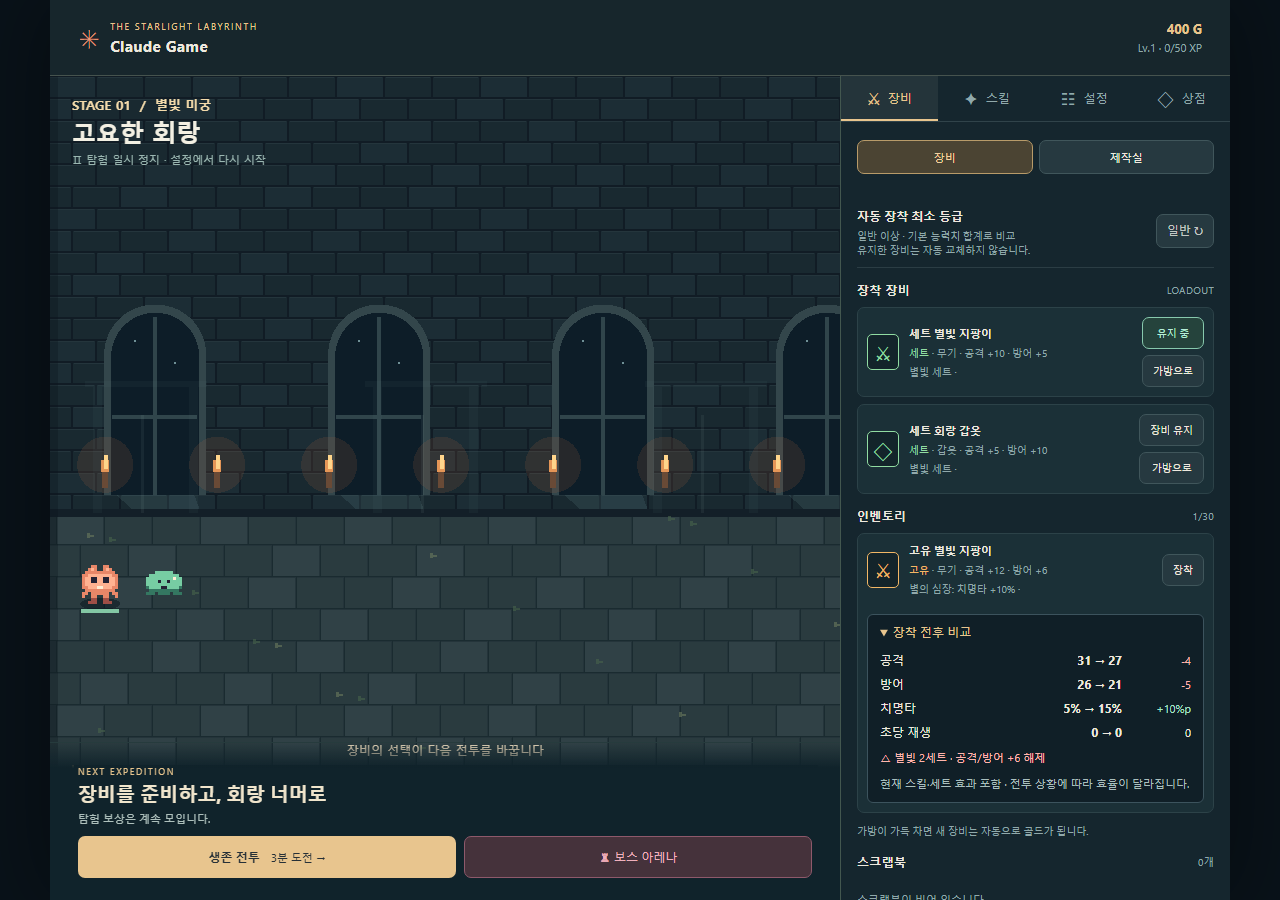
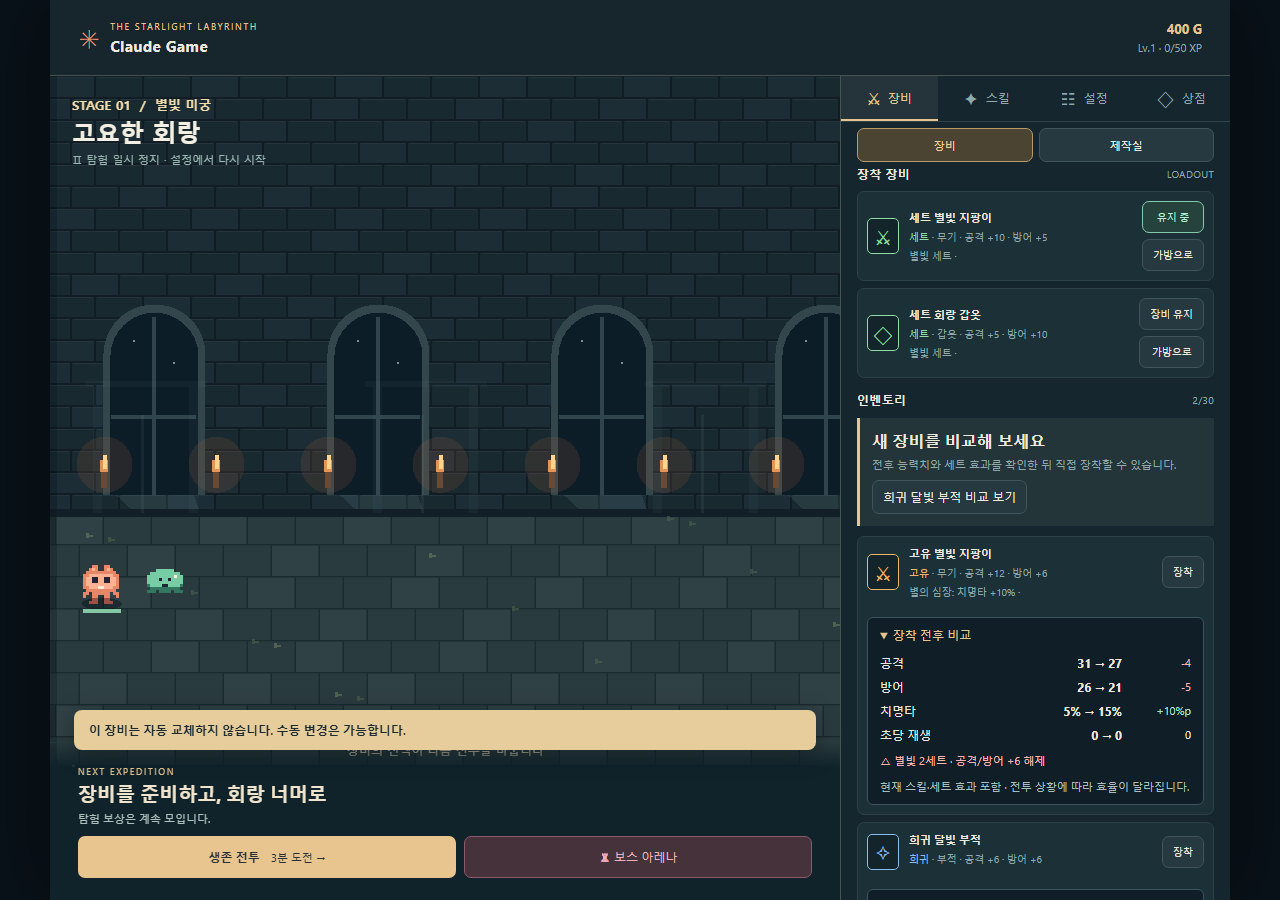
feat: guide first equipment choice and enemy roles

diff --git a/src/ui/BottomPanel.js b/src/ui/BottomPanel.js
@@ -72,8 +72,14 @@ export function renderTab(tab, state) {
     return sectionNav(tab, "craft") + renderCraft(state);
   if (tab === "shop" && ["merchant", "auction"].includes(state.view))
     return sectionNav(tab, state.view) + renderMarket(state, state.view);
-  if (tab === "equipment")
-    return `${sectionNav("equipment", "gear")}${gradeControl(state)}<div class="section-title">장착 장비 <span>LOADOUT</span></div><ul class="item-list">${state.character.equippedItems.length ? state.character.equippedItems.map((i) => itemRow(i, "unequip-item", "가방으로")).join("") : '<li class="empty-state">장착한 장비 없음 · 탐험하며 장비를 찾아보세요.</li>'}</ul><div class="section-title">인벤토리 <span>${(state.inventory || []).length}/${INVENTORY_CAPACITY}</span></div><ul class="item-list">${(state.inventory || []).map((i) => itemRow(i, "equip-item", "장착", undefined, true, state.character)).join("") || '<li class="empty-state">새로운 장비가 이곳에 모입니다.</li>'}</ul><p class="hint">가방이 가득 차면 새 장비는 자동으로 골드가 됩니다.</p><div class="section-title">스크랩북 <span>${(state.scrapbook || []).length}개</span></div><ul class="item-list">${(state.scrapbook || []).map((i) => itemRow(i, "restore-scrapbook-item", `${itemGoldValue(i)}G 복원`)).join("") || '<li class="empty-state">스크랩북이 비어 있습니다.</li>'}</ul>`;
+  if (tab === "equipment") {
+    const guideItem = (state.inventory || []).find(item => item.identified !== false &&
+      !state.character.equippedItems.some(equipped => equipped.slot === item.slot));
+    const guide = guideItem
+      ? `<aside class="first-equipment-guide"><b>새 장비를 비교해 보세요</b><small>전후 능력치와 세트 효과를 확인한 뒤 직접 장착할 수 있습니다.</small><button data-action="compare-first-item" data-item-id="${esc(guideItem.id)}">${esc(guideItem.name)} 비교 보기</button></aside>`
+      : '';
+    return `${sectionNav("equipment", "gear")}${gradeControl(state)}<div class="section-title">장착 장비 <span>LOADOUT</span></div><ul class="item-list">${state.character.equippedItems.length ? state.character.equippedItems.map((i) => itemRow(i, "unequip-item", "가방으로")).join("") : '<li class="empty-state">장착한 장비 없음 · 탐험하며 장비를 찾아보세요.</li>'}</ul><div class="section-title">인벤토리 <span>${(state.inventory || []).length}/${INVENTORY_CAPACITY}</span></div>${guide}<ul class="item-list">${(state.inventory || []).map((i) => itemRow(i, "equip-item", "장착", undefined, true, state.character)).join("") || '<li class="empty-state">새로운 장비가 이곳에 모입니다.</li>'}</ul><p class="hint">가방이 가득 차면 새 장비는 자동으로 골드가 됩니다.</p><div class="section-title">스크랩북 <span>${(state.scrapbook || []).length}개</span></div><ul class="item-list">${(state.scrapbook || []).map((i) => itemRow(i, "restore-scrapbook-item", `${itemGoldValue(i)}G 복원`)).join("") || '<li class="empty-state">스크랩북이 비어 있습니다.</li>'}</ul>`;
+  }
   if (tab === "skills") return renderSkillTree(state);
   if (tab === "settings")
     return `<div class="section-title">탐험 설정 <span>PREFERENCES</span></div>${gradeControl(state)}${[
@@ -229,6 +235,15 @@ export function mountBottomPanel(container) {
     }
     const button = event.target.closest("[data-action]");
     if (!button) return;
+    if (button.dataset.action === 'compare-first-item') {
+      const details = content.querySelector(`[data-comparison-id="${CSS.escape(button.dataset.itemId)}"]`);
+      if (details) {
+        details.open = true;
+        details.scrollIntoView({ behavior: 'smooth', block: 'nearest' });
+        details.querySelector('summary')?.focus({ preventScroll: true });
+      }
+      return;
+    }
     const state = store.getState(),
       action = button.dataset.action;
     let message = "";

diff --git a/src/systems/arena.js b/src/systems/arena.js
@@ -159,8 +159,19 @@ export function stepArena(
     const speed = enemy.boss
       ? 0
       : (24 + enemy.kind * 6 + arena.elapsed / 18) * (1 - slowed) * enraged;
-    enemy.x += ((p.x - enemy.x) / distance) * speed * dt;
-    enemy.y += ((p.y - enemy.y) / distance) * speed * dt;
+    let moveX = (p.x - enemy.x) / distance, moveY = (p.y - enemy.y) / distance;
+    if (!enemy.boss && !enemy.leader && enemy.kind === 1) {
+      // Bats weave across the approach line while continuing to close in.
+      const weave = Math.sin(arena.elapsed * 4 + enemy.id * 1.7) * 0.42;
+      const x = moveX - moveY * weave, y = moveY + moveX * weave;
+      const norm = Math.hypot(x, y) || 1;
+      moveX = x / norm; moveY = y / norm;
+    } else if (!enemy.boss && !enemy.leader && enemy.kind === 2 && distance < 145) {
+      // Skulls hold a little space instead of joining the contact swarm.
+      moveX *= -0.72; moveY *= -0.72;
+    }
+    enemy.x += moveX * speed * dt;
+    enemy.y += moveY * speed * dt;
     if (distance < HAZARD_GEOMETRY.playerContactRadius && arena.invulnerable <= 0) {
       p.hp = Math.max(
         0,

diff --git a/src/style.css b/src/style.css
@@ -57,6 +57,9 @@
 .stat-gain { color: #a8e5c5; }
 .comparison-warning { font-size: 11px; margin: 10px 0; }
 .equipment-comparison > small { display: block; margin-top: 10px; color: #aabfbe; line-height: 1.6; }
+.first-equipment-guide { display: grid; gap: 6px; padding: 12px; margin: 10px 0; border-left: 3px solid var(--gold); background: #24353a; }
+.first-equipment-guide small { color: var(--muted); line-height: 1.5; }
+.first-equipment-guide button { justify-self: start; }
 @media (max-height: 700px) {
   .expedition-actions { padding: 12px 18px; }
   .expedition-actions > div:first-child { display: none; }

diff --git a/docs/qa/2026-10-06/design-gap-review.md b/docs/qa/2026-10-06/design-gap-review.md
@@ -13,7 +13,7 @@
 | 넓은 화면 준비·장비 구성 | 대표 구간 완료 | 결과/획득 화면까지 준비 흐름 연결, 포털 실제 실행 검토 |
 | 전투 폭 정책 | 결정 반영 | 재설계 1차안은 판정 공간을 넓히지 않고 전투 캔버스를 최대 520px 기준으로 유지한다. 큰 화면은 좌우 준비 화면에 사용한다. 추후 전투 확대 시에만 논리 좌표 분리가 필요 |
 | 장비 전후 비교·자동 장착 보호 | 구현 | 인벤토리와 전투 보상에서 시작 시점 대비 능력치/세트 변화 표시. 장기 저장 이행과 복수 보상 누적 상황의 별도 사용자 평가 기록은 남음 |
-| 출전 준비·첫 성장 안내 | 부분 | 출전 선택은 명시적이나 첫 획득→비교→장착을 이끄는 도움말/목표 흐름은 없음 |
+| 출전 준비·첫 성장 안내 | 보강 | 빈 장비 슬롯에 보관 장비가 있으면 비교 안내와 비교 펼침 이동을 제공. 출전까지 잇는 단계별 목표 흐름은 남음 |
 | 위험 표현 | 구현 보강 | 위험 반경/돌진 폭을 규칙과 표시가 공유하고 개발 빌드 F2 판정 겹침 표시를 추가. 위협 동시 발생과 실제 모바일에서의 회피 이해도 측정은 남음 |
 | 캐릭터 동작 프레임 | 구현 보강 | 주인공의 이동/준비/공격/피격, 일반 적 3종과 수호자 자세를 추가. 별도 해상도 비교 및 저사양 모바일 확인은 남음 |
 | 보스 소개 | 부분 | 정지 타이머·건너뛰기·감소 모션·화면 페이드. 시선 연출, 소리 연결, 재도전용 단축, 소개 완료와 실제 공격 개시의 모든 상태 조합 확인은 없음 |
@@ -22,7 +22,7 @@
 | 애니메이션 수명/취소 | 부분 | 감소 모션, 씬 종료 정리, 일부 동시 표시 상한이 있음. 공통 표현 수명/우선순위 정책과 resize·중단·스킵 전 상태 복원 계약은 없음 |
 | 재현/성능 기반 | 미완료 | 고정 위험 캡처와 브라우저 fixture는 있으나 반복 입력 세트, 느린 프레임/메모리/실기기 측정은 없음 |
 | 아트 스타일 규칙 | 미완료 | 현재 코드에 팔레트와 픽셀 질감이 있으나 모든 자산에 적용되는 윤곽·명암·효과 형태 지침이 정식 기준으로 고정되지 않음 |
-| 적 역할과 페이싱 | 조사/실험 전 | 적들은 접근하는 행동이 중심. 역할별 행동과 전투 강약 실험은 로드맵의 후속 항목 |
+| 적 역할과 페이싱 | 초기 역할 구현 | 박쥐는 좌우로 흔들며 접근하고 해골은 근거리에서 거리를 둔다. 수치 난이도와 전투 강약/공정성은 별도 반복 플레이 평가 필요 |
 | 보상 분포 모델 | 검토 전 | 시각 재설계 대표 작업과 별도인 경제·장기 획득 분포 계산은 남음 |
 | 강한 타격 정지 연출 | 미채택 | 로드맵 P3의 선택 실험. 현재 범위에서 필수 누락은 아님 |
 

diff --git a/docs/qa/2026-10-06/implementation-progress.md b/docs/qa/2026-10-06/implementation-progress.md
@@ -11,12 +11,14 @@
 - 탐험 배경 원경을 별도 그래픽 레이어로 만들어 벽보다 느린 시차로 이동한다. reduced motion에서는 층이 함께 정지한다.
 - 겹친 경고는 보스 위험 우선, 군집 경고 후순위로 처리한다. 동급 신호는 한 줄에 합친다.
 - 픽셀 아트 최소 규칙을 [스타일 가이드 초안](../../research/project-application/pixel-style-guide.md)에 기록했다.
+- 첫 빈 장비 슬롯에 감정된 물품이 있으면 비교 위치로 바로 이동하는 장비 안내를 추가했다.
+- 박쥐는 접근 중 좌우로 흔들고 해골은 가까이 붙으면 거리를 벌려 적 역할을 시각과 움직임 양쪽에서 구분한다. 군집 우두머리와 보스는 추적/공격 규칙을 유지한다.
 - 전투 공간 정책은 첫 재설계 기준에서 최대 520px 기존 판정 폭을 유지하는 것으로 문서화했다. 전장 자체를 확대하는 변경은 이번 구현에 넣지 않았다.
 
 ## 검증
 
-- 단위 테스트 20개 파일, 121개 통과.
-- Playwright 동작 시나리오 통과: 보스 소개 중 타이머 정지와 건너뛰기, 이동 프레임, 모션 감소, F2 판정 오버레이, 전리품 비교, 새로고침 뒤 결과 복원.
+- 단위 테스트 20개 파일, 121개 통과(적 행동 역할과 첫 장비 도움말 포함).
+- Playwright 동작 시나리오 통과: 첫 장비 비교 바로가기, 보스 소개 중 타이머 정지/건너뛰기, 캐릭터 프레임, 모션 감소, F2 판정 오버레이, 전리품 비교, 새로고침 뒤 결과 복원.
 - 탐험 대표 화면의 원경 변경을 캡처로 확인했다. 초기 원형 고리 장식은 기존 창과 겹쳐 보였고 낮은 대비의 기둥 실루엣으로 수정한 뒤 재캡처했다.
 - 프로덕션 빌드 성공, `git diff --check` 통과. 500KB 초과 번들 경고는 남아 있다.
 
